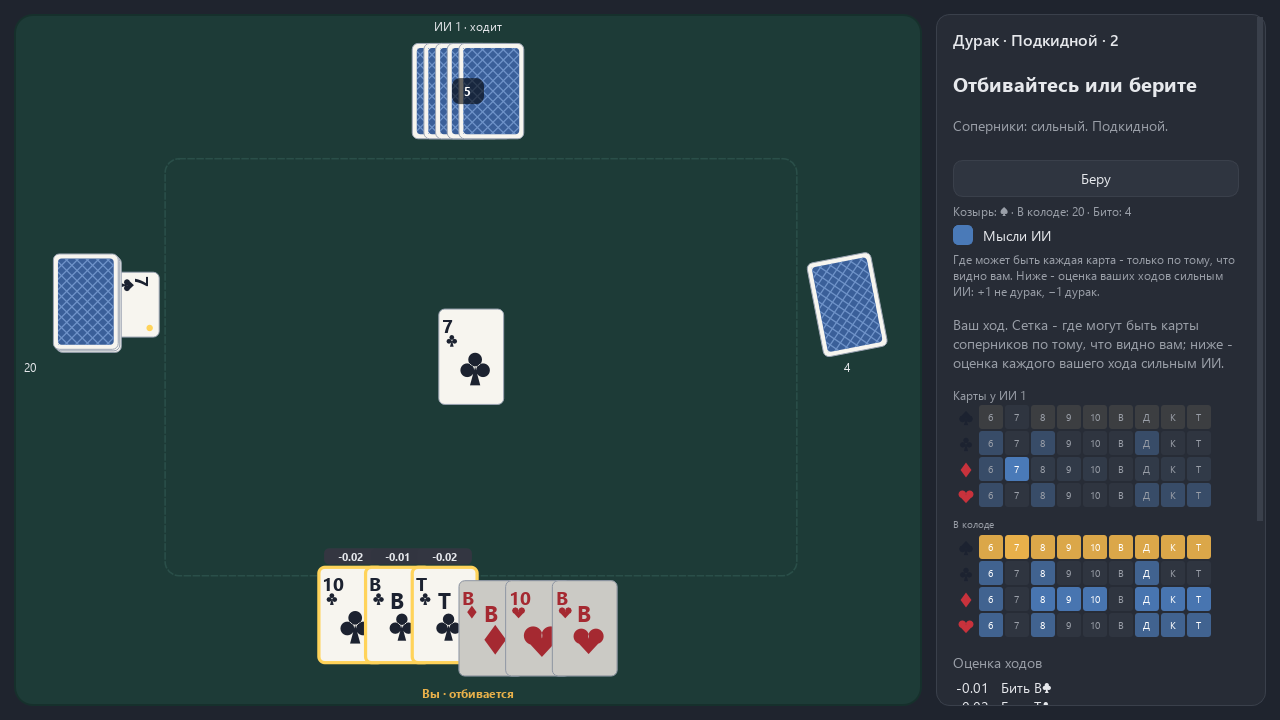
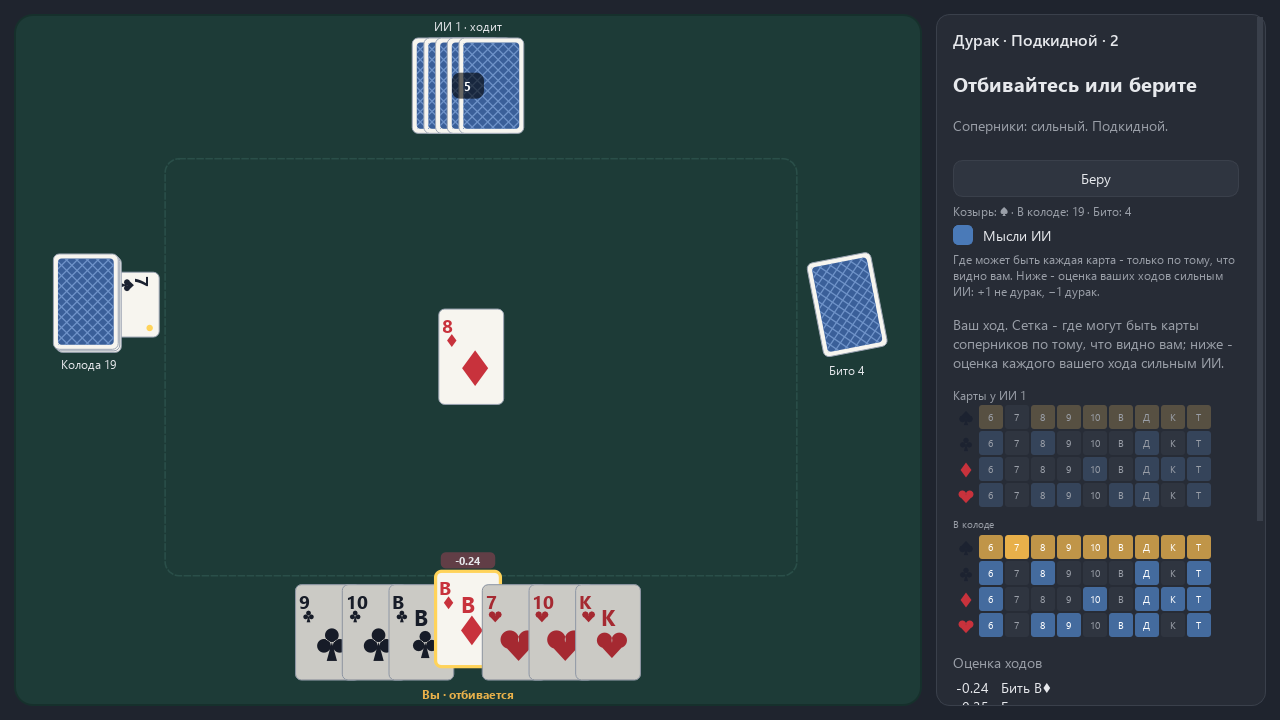
Дурак 1.0.3 @ 566ea8e: подписи стола всегда видны (подпись бокового ИИ над веером, «Колода N» и «Бито N» под стопками, подписи сверху и снизу не уходят за край, втроём открытые веера не налезают), «берёт» отдельным предложением; contract_check 0 ошибок, 169 тестов

diff --git a/games/durak/ui/table.py b/games/durak/ui/table.py
@@ -10,13 +10,14 @@ import math
 import time
 
 from PySide6.QtCore import QPointF, QRectF, QSize, Qt, QTimer, Signal
-from PySide6.QtGui import QColor, QFont, QPainter, QPen
+from PySide6.QtGui import QColor, QFont, QFontMetricsF, QPainter, QPen
 from PySide6.QtWidgets import QWidget
 
 from aikit import theme as aitheme
 from games.durak.core import cards as C
 from games.durak.core.durak import ATTACK, DEFEND, TRANSFER
 from games.durak.ui import cardpaint as cp
+from games.durak.ui.i18n import EN, RU
 
 
 def sort_key(c, trump):
@@ -37,6 +38,19 @@ class Place:
     def same(self, other):
         return (other is not None and abs(self.rect.x() - other.rect.x()) < 0.5
                 and abs(self.rect.y() - other.rect.y()) < 0.5 and abs(self.angle - other.angle) < 0.5)
+
+
+class Label:
+    """Подпись стола: key - номер игрока, 'deck' или 'discard'."""
+    __slots__ = ("key", "rect", "text", "color", "align", "font")
+
+    def __init__(self, key, rect, text, color, align, font):
+        self.key = key
+        self.rect = rect
+        self.text = text
+        self.color = color
+        self.align = align
+        self.font = font
 
 
 class Flight:
@@ -166,14 +180,22 @@ class TableWidget(QWidget):
             return ("tl", "tr")[k - 1]
         return ("left", "top", "right")[k - 1]
 
+    def label_height(self):
+        """Высота строки подписи (жирным): под неё оставлено место над и под руками."""
+        return QFontMetricsF(self.label_font(True)).height()
+
     def seat_center(self, seat):
+        """Центр руки. Подпись сверху и снизу - своя строка у края, руки отступают на её
+        высоту: при крупном окне шрифт больше, и раньше подпись уходила за край."""
         W, H = self.width(), self.height()
         cw, ch = self.card_size()
+        lh = self.label_height()
+        top = 4 + lh + 4 + ch * 0.5
         return {
-            "bottom": QPointF(W / 2, H - ch * 0.5 - 30),
-            "top": QPointF(W / 2, ch * 0.62 + 18),
-            "tl": QPointF(W * 0.27, ch * 0.62 + 18),
-            "tr": QPointF(W * 0.73, ch * 0.62 + 18),
+            "bottom": QPointF(W / 2, H - ch * 0.5 - lh - 10),
+            "top": QPointF(W / 2, top),
+            "tl": QPointF(W * 0.27, top),
+            "tr": QPointF(W * 0.73, top),
             "left": QPointF(cw * 0.95, H * 0.42),
             "right": QPointF(W - cw * 0.95, H * 0.42),
         }[seat]
@@ -223,12 +245,14 @@ class TableWidget(QWidget):
             y += ch * 0.22
         return QRectF(x, y, cw, ch)
 
-    def hand_rects(self, cards, center, face, vertical=False, raise_cards=()):
+    def hand_rects(self, cards, center, face, vertical=False, raise_cards=(), half=False):
+        """half - рука в верхнем углу втроём: веер в своей половине ширины (открытые руки двух
+        соперников раньше налезали друг на друга и уходили за край)."""
         cw, ch = self.card_size()
         n = len(cards)
         if n == 0:
             return {}
-        span = (self.width() * (0.62 if not vertical else 0.0)) if not vertical else self.height() * 0.36
+        span = self.width() * (0.44 if half else 0.62) if not vertical else self.height() * 0.36
         if not face:
             span = cw * 2.4 if not vertical else ch * 1.6
         step = min(cw * (0.72 if face else 0.22), (span - cw) / max(n - 1, 1)) if n > 1 else 0
@@ -282,7 +306,8 @@ class TableWidget(QWidget):
                 vertical = seat in ("left", "right")
                 raise_cards = self.playable() | ({self.selected} if self.selected >= 0 else set()) \
                     if mine else ()
-                rects = self.hand_rects(cards, center, True, vertical and not mine, raise_cards)
+                rects = self.hand_rects(cards, center, True, vertical and not mine, raise_cards,
+                                         half=seat in ("tl", "tr"))
                 for c in cards:
                     rect, i = rects[c]
                     places[c] = Place(rect, 0, True, 30 + i)
@@ -291,6 +316,141 @@ class TableWidget(QWidget):
                 for c in cards:
                     places[c] = Place(r, 0, False, 30)
         return places
+
+    # ---------- то, что нарисовано картами, и подписи ----------
+
+    def deck_back_rects(self):
+        """Рубашки колоды (до трёх, со сдвигом) - без открытого козыря."""
+        if self.state is None or len(self.state.deck) <= 1:
+            return []
+        deck_r = self.deck_rect()
+        return [deck_r.translated(-k * 1.5, -k * 1.5) for k in range(min(3, len(self.state.deck) - 1))]
+
+    def discard_backs(self):
+        """Углы рубашек стопки «бито» (стопка тем толще, чем больше карт)."""
+        nd = self.state.discard.bit_count() if self.state is not None else 0
+        return [(k * 37) % 23 - 11 for k in range(min(4, max(1, nd // 6)))] if nd else []
+
+    def closed_stack(self, q):
+        """Рубашки закрытой руки соперника q: до восьми со сдвигом вокруг центра места."""
+        s = self.state
+        if s is None or self.reveal or q == self.viewer:
+            return []
+        cw, ch = self.card_size()
+        seat = self.seat_of(q)
+        center = self.seat_center(seat)
+        vertical = seat in ("left", "right")
+        shown = min(s.hands[q].bit_count(), 8)
+        step = cw * 0.18
+        out = []
+        for k in range(shown):
+            off = (k - (shown - 1) / 2) * step
+            out.append(QRectF(center.x() - cw / 2 + (0 if vertical else off),
+                              center.y() - ch / 2 + (off if vertical else 0), cw, ch))
+        return out
+
+    @staticmethod
+    def _rotated_box(rect, angle):
+        if not angle:
+            return QRectF(rect)
+        a = math.radians(angle)
+        w = abs(rect.width() * math.cos(a)) + abs(rect.height() * math.sin(a))
+        h = abs(rect.width() * math.sin(a)) + abs(rect.height() * math.cos(a))
+        c = rect.center()
+        return QRectF(c.x() - w / 2, c.y() - h / 2, w, h)
+
+    def card_boxes(self):
+        """[(чьё, прямоугольник)] - всё, что на столе нарисовано картами, когда полёты кончились:
+        руки (q), колода ('deck'), бито ('discard'), карты стола ('table'). Подписи не должны
+        их задевать (закон в tests/test_layout.py)."""
+        s = self.state
+        if s is None:
+            return []
+        owner = {}
+        for p in range(s.n):
+            for c in C.cards_of(s.hands[p]):
+                owner[c] = p
+        for c in s.deck:
+            owner[c] = "deck"
+        for a, d in s.table:
+            owner[a] = "table"
+            if d >= 0:
+                owner[d] = "table"
+        out = []
+        for c, pl in self.places.items():
+            if not pl.face:
+                continue           # рубашки рук, колоды и бито - ниже, как они нарисованы
+            out.append((owner.get(c, "table"), self._rotated_box(pl.rect, pl.angle)))
+        for q in range(s.n):
+            out += [(q, r) for r in self.closed_stack(q)]
+        if s.deck:
+            out += [("deck", r) for r in self.deck_back_rects()]
+        else:
+            out.append(("deck", self.deck_rect()))
+        disc = self.discard_rect()
+        backs = self.discard_backs()
+        out += [("discard", self._rotated_box(disc, a)) for a in backs] or [("discard", disc)]
+        return out
+
+    def label_font(self, bold=False):
+        cw, ch = self.card_size()
+        font = QFont("Segoe UI")
+        font.setPixelSize(max(11, int(ch * 0.13)))
+        font.setBold(bold)
+        return font
+
+    def label_items(self):
+        """Подписи стола: имя и роль каждого игрока, колода, бито. rect - там, где текст
+        на самом деле нарисован (по метрикам шрифта)."""
+        s = self.state
+        if s is None:
+            return []
+        pal = aitheme.palette(self.theme)
+        cw, ch = self.card_size()
+        out = []
+
+        def add(key, box, text, color, align, bold=False, valign=True):
+            font = self.label_font(bold)
+            flags = align | Qt.AlignmentFlag.AlignVCenter if valign else align
+            rect = QFontMetricsF(font).boundingRect(box, int(flags.value), text)
+            out.append(Label(key, rect, text, color, flags, font))
+
+        T = EN if self.lang == "en" else RU
+        W, H = self.width(), self.height()
+        # колода и бито: подпись под стопкой, по её центру
+        deck_r = self.deck_rect()
+        add("deck", QRectF(deck_r.center().x() - cw * 2, deck_r.bottom() + 4, cw * 4, ch),
+            T["deck_pile"].format(n=len(s.deck)), pal["text"], Qt.AlignmentFlag.AlignTop
+            | Qt.AlignmentFlag.AlignHCenter, valign=False)
+        disc = self.discard_rect()
+        low = max([self._rotated_box(disc, a).bottom() for a in self.discard_backs()] + [disc.bottom()])
+        add("discard", QRectF(disc.center().x() - cw * 2, low + 4, cw * 4, ch),
+            T["discard_pile"].format(n=s.discard.bit_count()), pal["text"], Qt.AlignmentFlag.AlignTop
+            | Qt.AlignmentFlag.AlignHCenter, valign=False)
+        lh = self.label_height()
+        for q in range(s.n):
+            seat = self.seat_of(q)
+            center = self.seat_center(seat)
+            name = self.names[q] if q < len(self.names) else str(q)
+            role = self.badges.get(q, "")
+            text = name + (f" · {role}" if role else "") + (" …" if q == self.thinking else "")
+            color = pal["warn"] if q == s.turn and not s.over else pal["text"]
+            if s.over and s.fool == q:
+                color = pal["bad"]
+            bold = q == s.turn
+            if seat == "bottom":
+                add(q, QRectF(0, H - lh - 4, W, lh), text, color, Qt.AlignmentFlag.AlignHCenter, bold)
+            elif seat in ("top", "tl", "tr"):
+                add(q, QRectF(center.x() - W / 4, 4, W / 2, lh), text, color, Qt.AlignmentFlag.AlignHCenter, bold)
+            else:
+                # бок: над веером, прижата к краю окна. Веер вчетвером длинный (до 30 карт) -
+                # подпись под ним налезала на карты; сверху веер растёт от неё прочь.
+                mine = [r for o, r in self.card_boxes() if o == q]
+                top = min([r.top() for r in mine] + [center.y() - ch / 2])
+                align = Qt.AlignmentFlag.AlignLeft if seat == "left" else Qt.AlignmentFlag.AlignRight
+                box = QRectF(6, top - 4 - lh, W - 12, lh)
+                add(q, box, text, color, align, bold)
+        return out
 
     # ---------- рисование ----------
 
@@ -322,31 +482,30 @@ class TableWidget(QWidget):
         if s.deck:
             if s.trump_card in s.deck and s.trump_card not in flying:
                 self._draw_place(p, s.trump_card, self.places[s.trump_card])
-            if len(s.deck) > 1:
-                for k in range(min(3, len(s.deck) - 1)):
-                    cp.draw_back(p, deck_r.translated(-k * 1.5, -k * 1.5), self.theme)
+            for r in self.deck_back_rects():
+                cp.draw_back(p, r, self.theme)
         else:
             self._draw_suit_mark(p, deck_r, s.trump)
-        self._text(p, QRectF(deck_r.left() - cw * 0.5, deck_r.bottom() + 4, cw * 2.2, 22),
-                   str(len(s.deck)) if s.deck else "0", pal["text"], Qt.AlignmentFlag.AlignLeft)
         # отбой
         disc = self.discard_rect()
-        nd = s.discard.bit_count()
-        if nd:
-            for k in range(min(4, max(1, nd // 6))):
-                p.save()
-                p.translate(disc.center())
-                p.rotate((k * 37) % 23 - 11)
-                cp.draw_back(p, QRectF(-cw / 2, -ch / 2, cw, ch), self.theme)
-                p.restore()
-        else:
+        backs = self.discard_backs()
+        for ang in backs:
+            p.save()
+            p.translate(disc.center())
+            p.rotate(ang)
+            cp.draw_back(p, QRectF(-cw / 2, -ch / 2, cw, ch), self.theme)
+            p.restore()
+        if not backs:
             p.setPen(QPen(QColor(col["slot"]), 1.5, Qt.PenStyle.DashLine))
             p.drawRoundedRect(disc, 8, 8)
-        self._text(p, QRectF(disc.left() - cw * 0.3, disc.bottom() + 4, cw * 1.6, 22), str(nd),
-                   pal["text"], Qt.AlignmentFlag.AlignCenter)
-        # соперники и подписи
+        # соперники
         for q in range(s.n):
             self._draw_seat(p, q, flying)
+        # подписи: игроки, колода, бито
+        for lab in self.label_items():
+            p.setFont(lab.font)
+            p.setPen(QColor(lab.color))
+            p.drawText(lab.rect, lab.align, lab.text)
         # стол
         target_slots = self._target_slots()
         for i, (a, d) in enumerate(s.table):
@@ -424,13 +583,7 @@ class TableWidget(QWidget):
                                  dim=mine and bool(self.legal) and c not in playable, badge=badge)
         else:
             n = len(cards)
-            vertical = seat in ("left", "right")
-            shown = min(n, 8)
-            step = cw * 0.18
-            for k in range(shown):
-                off = (k - (shown - 1) / 2) * step
-                r = QRectF(center.x() - cw / 2 + (0 if vertical else off),
-                           center.y() - ch / 2 + (off if vertical else 0), cw, ch)
+            for r in self.closed_stack(q):
                 cp.draw_back(p, r, self.theme)
             if n:
                 badge = QRectF(center.x() - 16, center.y() - 13, 32, 26)
@@ -438,20 +591,6 @@ class TableWidget(QWidget):
                 p.setBrush(QColor(0, 0, 0, 150))
                 p.drawRoundedRect(badge, 8, 8)
                 self._text(p, badge, str(n), "#ffffff", Qt.AlignmentFlag.AlignCenter, bold=True)
-        # подпись: имя и роль
-        name = self.names[q] if q < len(self.names) else str(q)
-        role = self.badges.get(q, "")
-        text = name + (f" · {role}" if role else "") + (" …" if q == self.thinking else "")
-        if seat == "bottom":
-            r = QRectF(center.x() - 200, self.height() - 24, 400, 22)
-        elif seat in ("left", "right"):
-            r = QRectF(center.x() - cw, center.y() + ch * 0.75 + 4, cw * 2, 40)
-        else:
-            r = QRectF(center.x() - 160, 2, 320, 20)
-        color = pal["warn"] if q == s.turn and not s.over else pal["text"]
-        if s.over and s.fool == q:
-            color = pal["bad"]
-        self._text(p, r, text, color, Qt.AlignmentFlag.AlignCenter, bold=q == s.turn)
 
     def _draw_suit_mark(self, p, rect, suit):
         col = cp.cloth(self.theme)

diff --git a/games/durak/ui/i18n.py b/games/durak/ui/i18n.py
@@ -19,6 +19,7 @@ RU = {
     "pick_target": "Выберите, какую карту бить (или стол - перевести)",
     "deck_left": "В колоде: {n}", "deck_empty": "Колода пуста", "trump": "Козырь",
     "discard": "Бито: {n}",
+    "deck_pile": "Колода {n}", "discard_pile": "Бито {n}",
     "win": "Вы не дурак!", "loss": "Вы остались дураком", "draw": "Ничья",
     "fool_is": "Дурак - {name}", "nobody_fool": "Ничья: последние вышли одновременно",
     "demo_text": "ИИ играет сам с собой ({level}). Карты открыты.",
@@ -107,6 +108,7 @@ EN = {
     "pick_target": "Pick the card to beat (or the table to transfer)",
     "deck_left": "Deck: {n}", "deck_empty": "Deck is empty", "trump": "Trump",
     "discard": "Discarded: {n}",
+    "deck_pile": "Deck {n}", "discard_pile": "Discard {n}",
     "win": "You are not the fool!", "loss": "You are the fool", "draw": "Draw",
     "fool_is": "The fool is {name}", "nobody_fool": "Draw: the last players went out together",
     "demo_text": "The AI plays itself ({level}). Cards are face up.",

diff --git a/games/durak/ui/widget.py b/games/durak/ui/widget.py
@@ -974,7 +974,7 @@ class GameWidget(QWidget):
             else:
                 sub = t("play_text", level=t(s.level).lower(), variant=variant)
             if st_.taking and st_.defender != s.human:
-                sub = t("taking", name=names[st_.defender]) + " " + sub
+                sub = t("taking", name=names[st_.defender]) + ". " + sub
             pp.substatus.setText(sub)
         trump_name = t("trump") + ": " + "♠♣♦♥"[st_.trump]
         pp.info.setText(f"{trump_name} · " + (t("deck_left", n=len(st_.deck)) if st_.deck else t("deck_empty"))

diff --git a/games/durak/version.py b/games/durak/version.py
@@ -1,1 +1,1 @@
-VERSION = "1.0.2"
+VERSION = "1.0.3"
